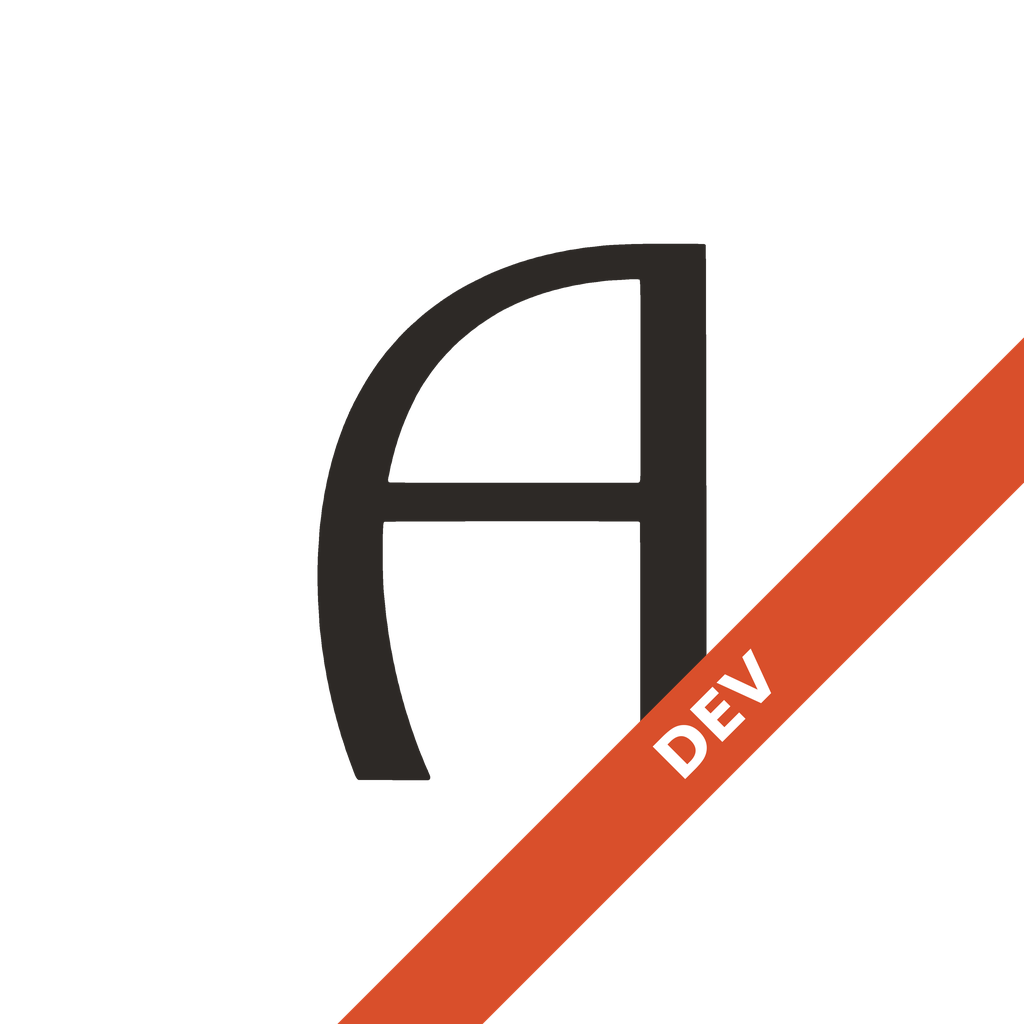
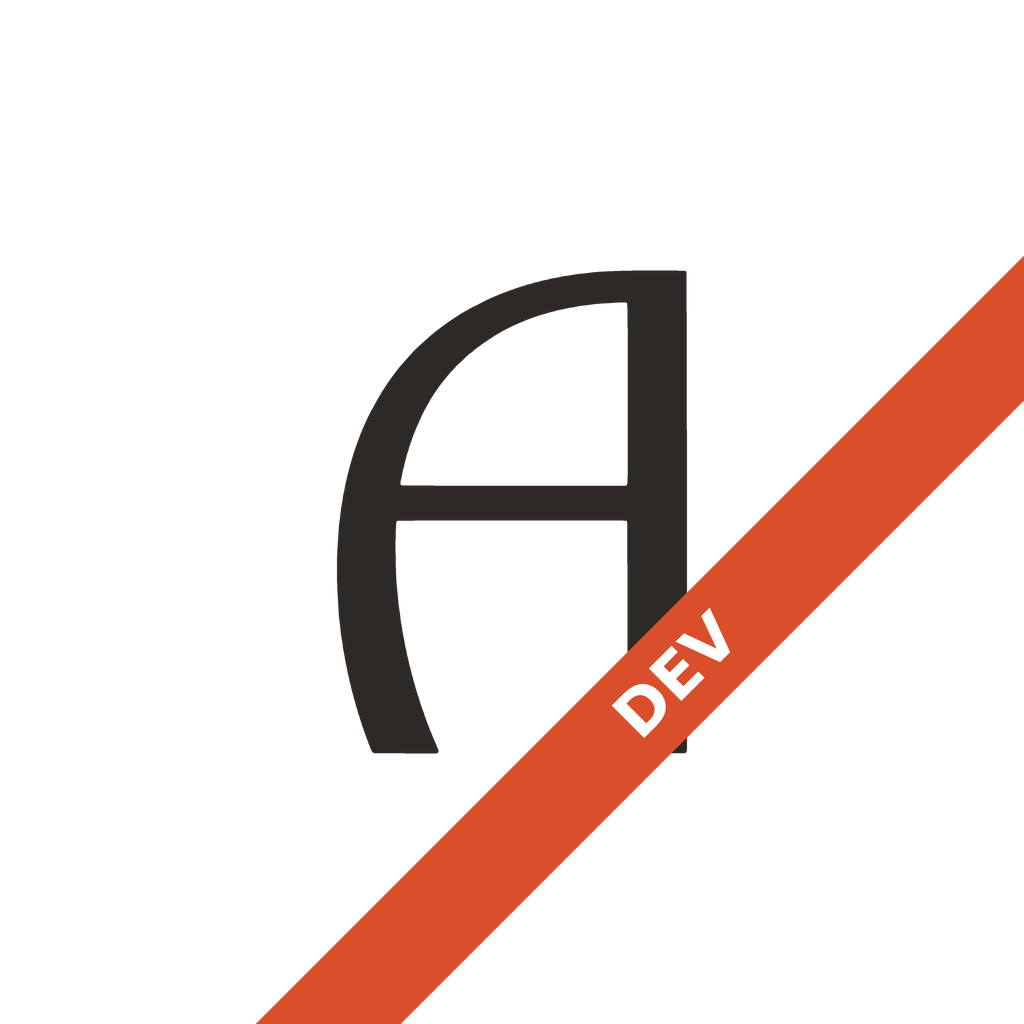
fix: ícone adaptativo dentro da zona segura de 66dp do Android
Dimensiona o "A" pelo raio máximo do contorno (círculo de 0,58·n, abaixo de
66/108), aproxima a faixa DEV do centro e adiciona fallback de fonte.

Changed region(s): [[0.25, 0.2188, 1.0, 1.0]]

diff --git a/scripts/generate-icons.py b/scripts/generate-icons.py
@@ -164,6 +164,13 @@ def glyph_mask(size: tuple[int, int], height: float, center: tuple[float, float]
     return mask.convert('L').resize(size, Image.LANCZOS)
 
 
+def glyph_max_radius() -> float:
+    """Maior distância de um ponto do contorno ao centro da bbox, por unidade de altura."""
+    polys, (x0, y0, x1, y1) = load_svg()
+    cx, cy = (x0 + x1) / 2, (y0 + y1) / 2
+    return max(np.hypot(x - cx, y - cy) for p in polys for x, y in p) / (y1 - y0)
+
+
 def glyph_aspect() -> float:
     _, (x0, y0, x1, y1) = load_svg()
     return (x1 - x0) / (y1 - y0)
@@ -191,7 +198,12 @@ def dev_band(size: int, center_frac: float, thickness_frac: float) -> Image.Imag
     d.polygon(pts, fill=DEV_BAND + (255,))
 
     # texto em camada separada, girado -45°
-    font = ImageFont.truetype(DEV_FONT, int(thickness_frac * W * 0.62))
+    font_size = int(thickness_frac * W * 0.62)
+    try:
+        font = ImageFont.truetype(DEV_FONT, font_size)
+    except OSError:
+        print(f'aviso: fonte {DEV_FONT} ausente; usando a fonte padrão do Pillow')
+        font = ImageFont.load_default(font_size)
     tw = int(thickness_frac * W * 4)
     th = int(thickness_frac * W)
     txt = Image.new('RGBA', (tw, th), (0, 0, 0, 0))
@@ -235,15 +247,17 @@ def render() -> None:
     icon_dev.alpha_composite(dev_band(n, 0.80, 0.13))
     save_opaque(icon_dev, 'icon-dev.png')
 
-    # adaptive-icon.png: transparente; bbox do "A" inscrita no círculo de 66% (raio 338px)
+    # adaptive-icon.png: transparente. Zona segura do Android = círculo de 66dp numa tela de
+    # 108dp (66/108 = 61,1%, raio ~313px em 1024); com margem visual, todo o contorno do "A"
+    # fica dentro de um círculo de 0,58·n de diâmetro (raio ~297px).
     aspect = glyph_aspect()
-    safe_d = 0.66 * n
-    h = safe_d / np.hypot(1, aspect) * 0.98
+    assert 0.58 < 66 / 108
+    h = (0.58 * n / 2) / glyph_max_radius()
     adaptive = transparent_with_glyph(n, h)
     save_rgba(adaptive, 'adaptive-icon.png')
     adaptive_dev = adaptive.copy()
-    # faixa mais próxima do centro para continuar visível sob máscaras circulares
-    adaptive_dev.alpha_composite(dev_band(n, 0.70, 0.10))
+    # faixa mais próxima do centro: o texto "DEV" fica inteiro dentro da zona segura (r 313px)
+    adaptive_dev.alpha_composite(dev_band(n, 0.66, 0.10))
     save_rgba(adaptive_dev, 'adaptive-icon-dev.png')
 
     # splash.png: 1284x2778 creme, "A" com ~25% da largura
